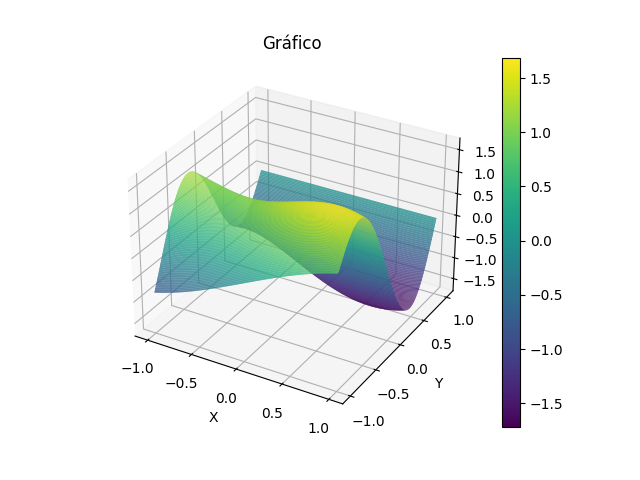
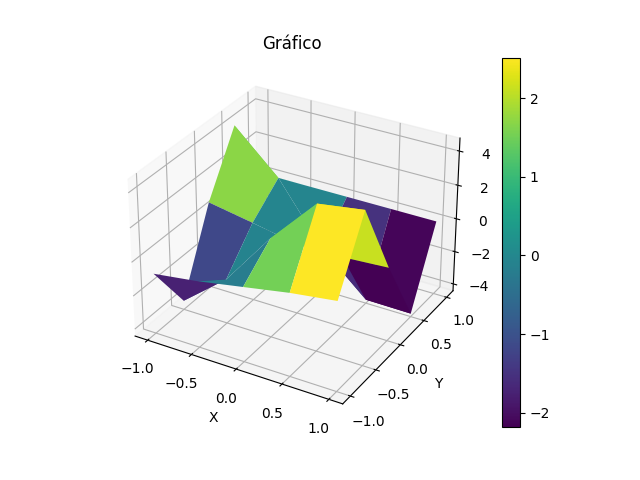
ok

diff --git a/01/main.py b/01/main.py
@@ -6,7 +6,7 @@ b = 1
 k_2 = 10
 
 # Cálculo da solução de referência
-h_ref = 1/128
+h_ref = 1/2
 tam_malha = tamanho_malha(a, b, h_ref)
 
 valores_ref = aprox_u(a, h_ref, tam_malha, k_2)
@@ -14,18 +14,18 @@ valores_ref = aprox_u(a, h_ref, tam_malha, k_2)
 # Grafico dos valores de referencia
 plot_referencia(a, b, tam_malha, valores_ref)
 
-# Vetor dos valores de h
-h = [1/16, 1/8, 1/4, 1/2]
+# # Vetor dos valores de h
+# h = [1/64, 1/16, 1/8]
 
-# Criação da malha e dos valores_h
-valores_h = valores_h_calc(a, h, tam_malha, k_2)
+# # Criação da malha e dos valores_h
+# valores_h = valores_h_calc(a, h, tam_malha, k_2)
 
-# Vetor dos truncamentos dos valores da malha analisada e da malha da solução de referência
-erros = erro_calc(h, valores_ref, valores_h)
+# # Vetor dos truncamentos dos valores da malha analisada e da malha da solução de referência
+# erros = erro_calc(h, valores_ref, valores_h)
 
-# Gerando tabela de resultados
-# tabela_resultados(h, erro)
-print(erros)
+# # Gerando tabela de resultados
+# # tabela_resultados(h, erro)
+# print(erros)
 
-# Plotagem da convergência do método
-plot_erros(h, erros)
+# # Plotagem da convergência do método
+# plot_erros(h, erros)

diff --git a/01/functions.py b/01/functions.py
@@ -46,6 +46,7 @@ def aprox_u(a, h, tam_malha, k_2):
 
     # Matriz auxiliar 1
     I_1 = np.identity(tam_malha)
+
     I_1[0][0] = 0
     I_1[-1][-1] = 0
 
@@ -149,21 +150,20 @@ def erro_calc(h, valores_referencia, valores_h):
     for i in range(0, len(h)):
 
         # TENTATIVA 1
-        # erro_absoluto = np.abs(valores_referencia - valores_h[i])
-        # norma_max = np.amax(np.abs(valores_referencia))
+        erro_absoluto = np.abs(valores_referencia - valores_h[i])
+        norma_max = np.amax(np.abs(valores_referencia))
 
-        # erro_relativo = np.amax(erro_absoluto) / norma_max
+        erro_relativo = np.amax(erro_absoluto) / norma_max
 
         # TENTATIVA 2
-        erro_relativo = np.linalg.norm(
-            valores_h[i] - valores_referencia)/np.linalg.norm(valores_referencia)
+        # erro_relativo = np.linalg.norm(
+        #     valores_h[i] - valores_referencia)/np.linalg.norm(valores_referencia)
 
         erros.append(erro_relativo)
 
     return erros
 
 
-# Função que cria a tabela com os resultados
 def tabela_resultados(h, erro):
     print(pd.DataFrame({'h': h, 'Erro': erro}).to_latex(index=False))
 
